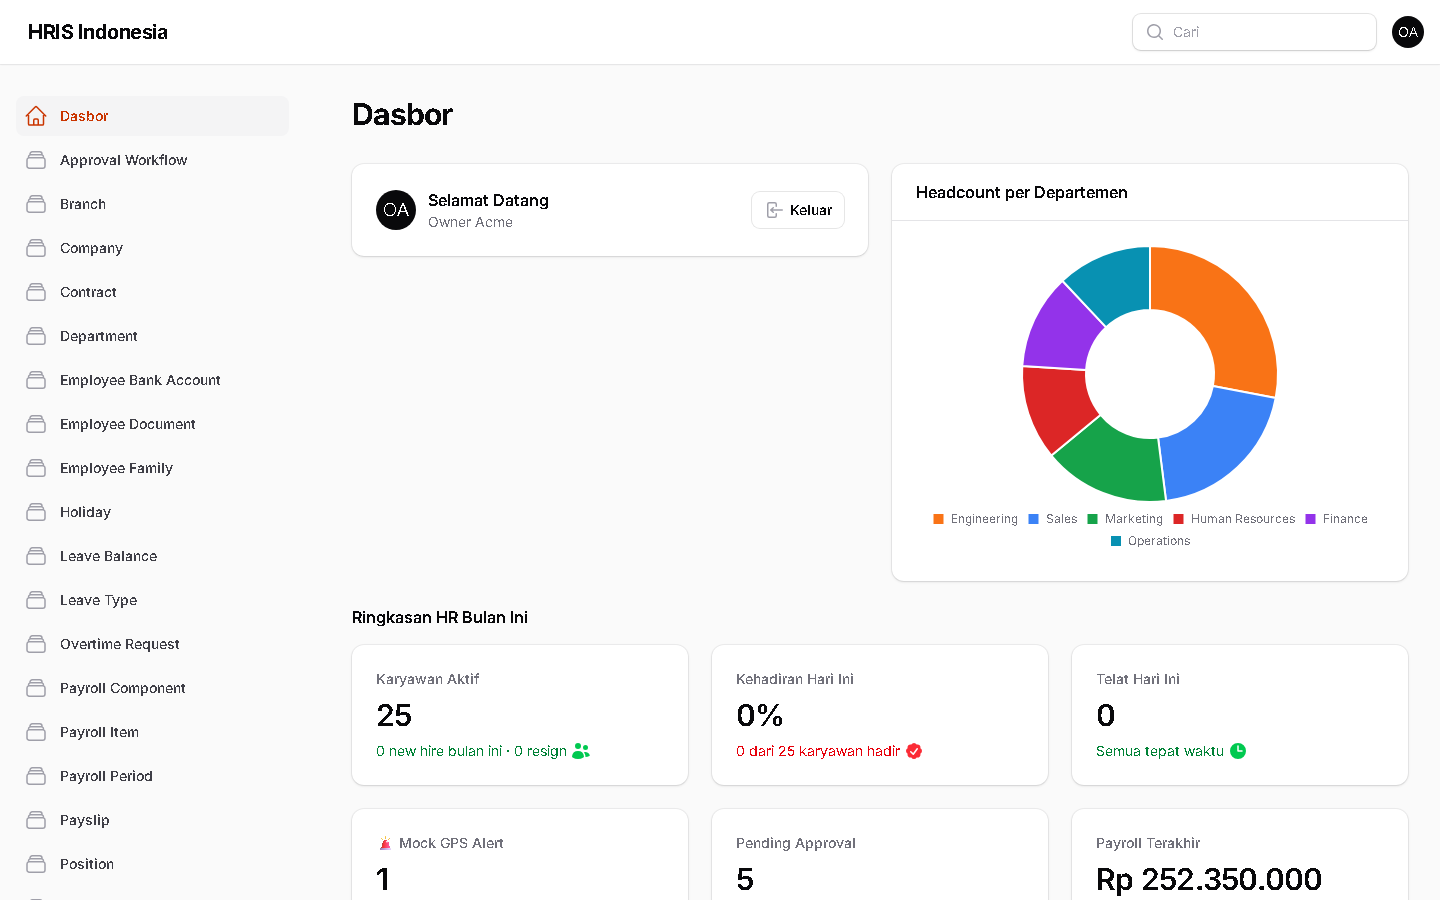
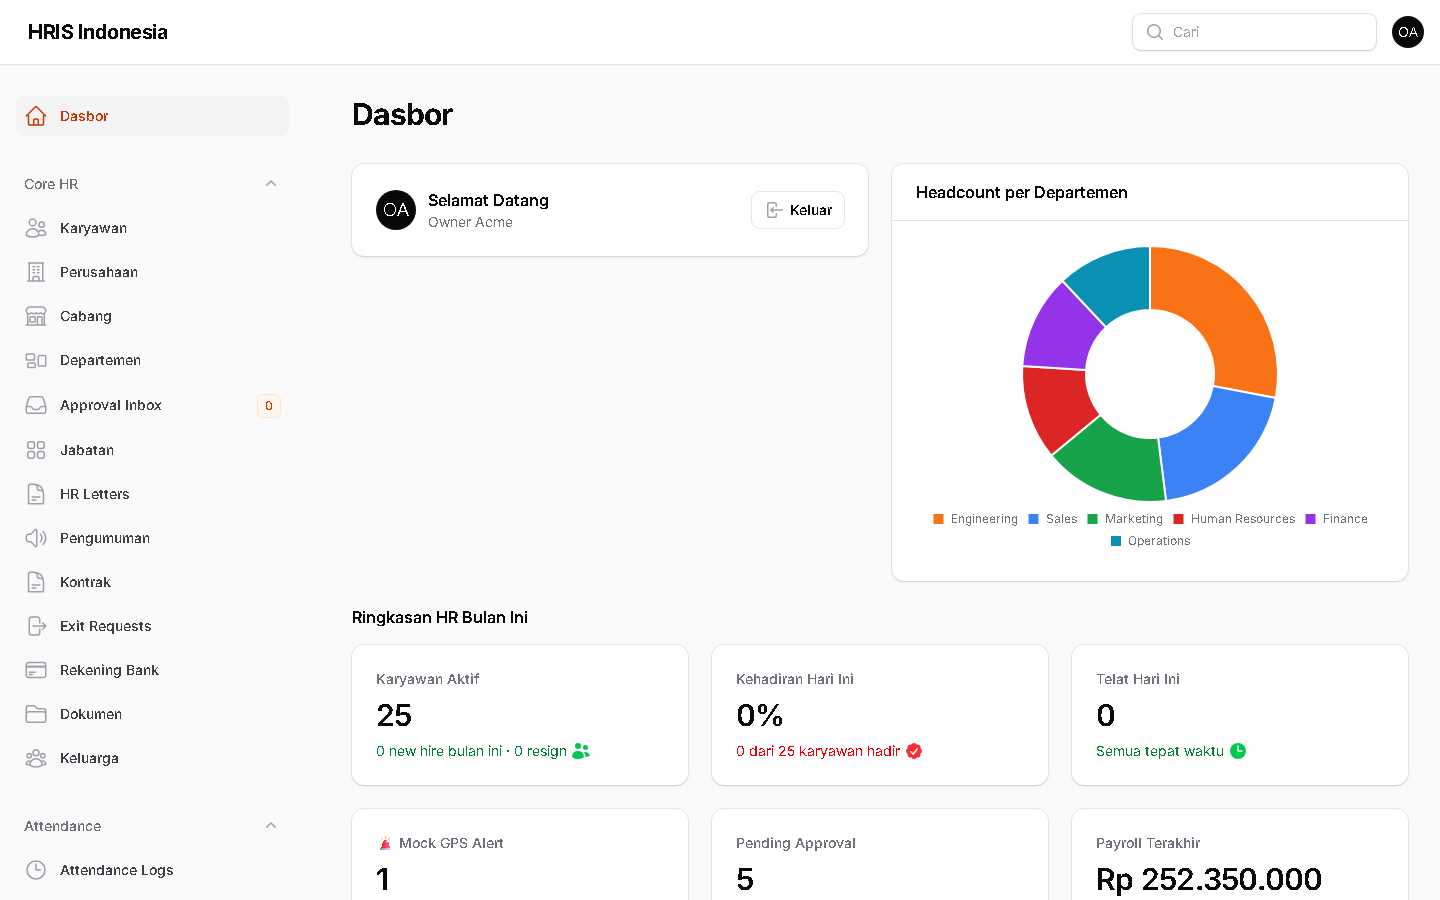
fix: navigationGroup di 18 Resources yang tampil flat di sidebar admin
Bug: User report 'fitur sebanyak itu belum ada yang muncul'.
Diagnose: 44 Resources actually registered (cek route:list --json), tapi
18 di antaranya muncul flat di sidebar TANPA group categorization → user perlu
scroll panjang tanpa context.

Fix: bulk update navigationGroup + Heroicon + label Indonesia + sort
ke 18 Resources yang masih default:

CORE HR group (+9 Resources):
- Branch (Cabang), Company (Perusahaan), Contract (Kontrak),
  Department (Departemen), EmployeeBankAccount (Rekening Bank),
  EmployeeDocument (Dokumen), EmployeeFamily (Keluarga),
  Position (Jabatan), ApprovalWorkflow (Workflow Approval — moved to Settings)

ATTENDANCE group (+4):
- Holiday (Hari Libur), Shift, LeaveType (Jenis Cuti),
  LeaveBalance (Saldo Cuti), OvertimeRequest (Lembur)

PAYROLL group (+4):
- PayrollComponent (Komponen Gaji), PayrollPeriod (Periode Gaji),
  PayrollItem (Item Gaji), Payslip (Slip Gaji)

SETTINGS group (+1):
- ApprovalWorkflow

DISTRIBUSI AKHIR:
- Core HR: 13 Resources
- Settings: 9
- Payroll: 7
- Attendance: 7
- Talent: 6
- Operations: 2
TOTAL: 44 Resources ter-categorized

Tested: admin-dashboard.png sidebar sekarang show grouped:
📂 Core HR (collapsible): Karyawan, Perusahaan, Cabang, Departemen,
  Approval Inbox, Jabatan, HR Letters, Pengumuman, Kontrak, Exit Requests,
  Rekening Bank, Dokumen, Keluarga
📂 Attendance: Attendance Logs, Shift, Jenis Cuti, Saldo Cuti, Pengajuan Cuti,
  Lembur, Hari Libur
📂 Payroll, Talent, Operations, Settings — semua tersusun rapi

diff --git a/app/Filament/Resources/ApprovalWorkflows/ApprovalWorkflowResource.php b/app/Filament/Resources/ApprovalWorkflows/ApprovalWorkflowResource.php
@@ -20,7 +20,10 @@ class ApprovalWorkflowResource extends Resource
 {
     protected static ?string $model = ApprovalWorkflow::class;
 
-    protected static string|BackedEnum|null $navigationIcon = Heroicon::OutlinedRectangleStack;
+        protected static string|BackedEnum|null $navigationIcon = Heroicon::OutlinedAdjustmentsHorizontal;
+    protected static ?string $navigationLabel = 'Workflow Approval';
+    protected static \UnitEnum|string|null $navigationGroup = 'Settings';
+    protected static ?int $navigationSort = 15;
 
     public static function form(Schema $schema): Schema
     {

diff --git a/app/Filament/Resources/EmployeeBankAccounts/EmployeeBankAccountResource.php b/app/Filament/Resources/EmployeeBankAccounts/EmployeeBankAccountResource.php
@@ -18,7 +18,10 @@ class EmployeeBankAccountResource extends Resource
 {
     protected static ?string $model = EmployeeBankAccount::class;
 
-    protected static string|BackedEnum|null $navigationIcon = Heroicon::OutlinedRectangleStack;
+        protected static string|BackedEnum|null $navigationIcon = Heroicon::OutlinedCreditCard;
+    protected static ?string $navigationLabel = 'Rekening Bank';
+    protected static \UnitEnum|string|null $navigationGroup = 'Core HR';
+    protected static ?int $navigationSort = 20;
 
     public static function form(Schema $schema): Schema
     {

diff --git a/app/Filament/Resources/PayrollComponents/PayrollComponentResource.php b/app/Filament/Resources/PayrollComponents/PayrollComponentResource.php
@@ -20,7 +20,10 @@ class PayrollComponentResource extends Resource
 {
     protected static ?string $model = PayrollComponent::class;
 
-    protected static string|BackedEnum|null $navigationIcon = Heroicon::OutlinedRectangleStack;
+        protected static string|BackedEnum|null $navigationIcon = Heroicon::OutlinedRectangleStack;
+    protected static ?string $navigationLabel = 'Komponen Gaji';
+    protected static \UnitEnum|string|null $navigationGroup = 'Payroll';
+    protected static ?int $navigationSort = 20;
 
     public static function form(Schema $schema): Schema
     {

diff --git a/app/Filament/Resources/PayrollPeriods/PayrollPeriodResource.php b/app/Filament/Resources/PayrollPeriods/PayrollPeriodResource.php
@@ -18,7 +18,10 @@ class PayrollPeriodResource extends Resource
 {
     protected static ?string $model = PayrollPeriod::class;
 
-    protected static string|BackedEnum|null $navigationIcon = Heroicon::OutlinedRectangleStack;
+        protected static string|BackedEnum|null $navigationIcon = Heroicon::OutlinedCalendarDays;
+    protected static ?string $navigationLabel = 'Periode Gaji';
+    protected static \UnitEnum|string|null $navigationGroup = 'Payroll';
+    protected static ?int $navigationSort = 21;
 
     public static function form(Schema $schema): Schema
     {

diff --git a/app/Filament/Resources/EmployeeDocuments/EmployeeDocumentResource.php b/app/Filament/Resources/EmployeeDocuments/EmployeeDocumentResource.php
@@ -20,7 +20,10 @@ class EmployeeDocumentResource extends Resource
 {
     protected static ?string $model = EmployeeDocument::class;
 
-    protected static string|BackedEnum|null $navigationIcon = Heroicon::OutlinedRectangleStack;
+        protected static string|BackedEnum|null $navigationIcon = Heroicon::OutlinedFolder;
+    protected static ?string $navigationLabel = 'Dokumen';
+    protected static \UnitEnum|string|null $navigationGroup = 'Core HR';
+    protected static ?int $navigationSort = 21;
 
     public static function form(Schema $schema): Schema
     {

diff --git a/app/Filament/Resources/EmployeeFamilies/EmployeeFamilyResource.php b/app/Filament/Resources/EmployeeFamilies/EmployeeFamilyResource.php
@@ -18,7 +18,10 @@ class EmployeeFamilyResource extends Resource
 {
     protected static ?string $model = EmployeeFamily::class;
 
-    protected static string|BackedEnum|null $navigationIcon = Heroicon::OutlinedRectangleStack;
+        protected static string|BackedEnum|null $navigationIcon = Heroicon::OutlinedUserGroup;
+    protected static ?string $navigationLabel = 'Keluarga';
+    protected static \UnitEnum|string|null $navigationGroup = 'Core HR';
+    protected static ?int $navigationSort = 22;
 
     public static function form(Schema $schema): Schema
     {

diff --git a/app/Filament/Resources/Departments/DepartmentResource.php b/app/Filament/Resources/Departments/DepartmentResource.php
@@ -20,7 +20,10 @@ class DepartmentResource extends Resource
 {
     protected static ?string $model = Department::class;
 
-    protected static string|BackedEnum|null $navigationIcon = Heroicon::OutlinedRectangleStack;
+        protected static string|BackedEnum|null $navigationIcon = Heroicon::OutlinedRectangleGroup;
+    protected static ?string $navigationLabel = 'Departemen';
+    protected static \UnitEnum|string|null $navigationGroup = 'Core HR';
+    protected static ?int $navigationSort = 4;
 
     public static function form(Schema $schema): Schema
     {

diff --git a/app/Filament/Resources/OvertimeRequests/OvertimeRequestResource.php b/app/Filament/Resources/OvertimeRequests/OvertimeRequestResource.php
@@ -20,7 +20,10 @@ class OvertimeRequestResource extends Resource
 {
     protected static ?string $model = OvertimeRequest::class;
 
-    protected static string|BackedEnum|null $navigationIcon = Heroicon::OutlinedRectangleStack;
+        protected static string|BackedEnum|null $navigationIcon = Heroicon::OutlinedClock;
+    protected static ?string $navigationLabel = 'Lembur';
+    protected static \UnitEnum|string|null $navigationGroup = 'Attendance';
+    protected static ?int $navigationSort = 6;
 
     public static function form(Schema $schema): Schema
     {

diff --git a/app/Filament/Resources/LeaveBalances/LeaveBalanceResource.php b/app/Filament/Resources/LeaveBalances/LeaveBalanceResource.php
@@ -18,7 +18,10 @@ class LeaveBalanceResource extends Resource
 {
     protected static ?string $model = LeaveBalance::class;
 
-    protected static string|BackedEnum|null $navigationIcon = Heroicon::OutlinedRectangleStack;
+        protected static string|BackedEnum|null $navigationIcon = Heroicon::OutlinedScale;
+    protected static ?string $navigationLabel = 'Saldo Cuti';
+    protected static \UnitEnum|string|null $navigationGroup = 'Attendance';
+    protected static ?int $navigationSort = 5;
 
     public static function form(Schema $schema): Schema
     {

diff --git a/app/Filament/Resources/PayrollItems/PayrollItemResource.php b/app/Filament/Resources/PayrollItems/PayrollItemResource.php
@@ -18,7 +18,10 @@ class PayrollItemResource extends Resource
 {
     protected static ?string $model = PayrollItem::class;
 
-    protected static string|BackedEnum|null $navigationIcon = Heroicon::OutlinedRectangleStack;
+        protected static string|BackedEnum|null $navigationIcon = Heroicon::OutlinedListBullet;
+    protected static ?string $navigationLabel = 'Item Gaji';
+    protected static \UnitEnum|string|null $navigationGroup = 'Payroll';
+    protected static ?int $navigationSort = 22;
 
     public static function form(Schema $schema): Schema
     {

diff --git a/app/Filament/Resources/Payslips/PayslipResource.php b/app/Filament/Resources/Payslips/PayslipResource.php
@@ -18,7 +18,10 @@ class PayslipResource extends Resource
 {
     protected static ?string $model = Payslip::class;
 
-    protected static string|BackedEnum|null $navigationIcon = Heroicon::OutlinedRectangleStack;
+        protected static string|BackedEnum|null $navigationIcon = Heroicon::OutlinedDocumentArrowDown;
+    protected static ?string $navigationLabel = 'Slip Gaji';
+    protected static \UnitEnum|string|null $navigationGroup = 'Payroll';
+    protected static ?int $navigationSort = 23;
 
     public static function form(Schema $schema): Schema
     {

diff --git a/app/Filament/Resources/Companies/CompanyResource.php b/app/Filament/Resources/Companies/CompanyResource.php
@@ -20,7 +20,10 @@ class CompanyResource extends Resource
 {
     protected static ?string $model = Company::class;
 
-    protected static string|BackedEnum|null $navigationIcon = Heroicon::OutlinedRectangleStack;
+        protected static string|BackedEnum|null $navigationIcon = Heroicon::OutlinedBuildingOffice;
+    protected static ?string $navigationLabel = 'Perusahaan';
+    protected static \UnitEnum|string|null $navigationGroup = 'Core HR';
+    protected static ?int $navigationSort = 2;
 
     public static function form(Schema $schema): Schema
     {
